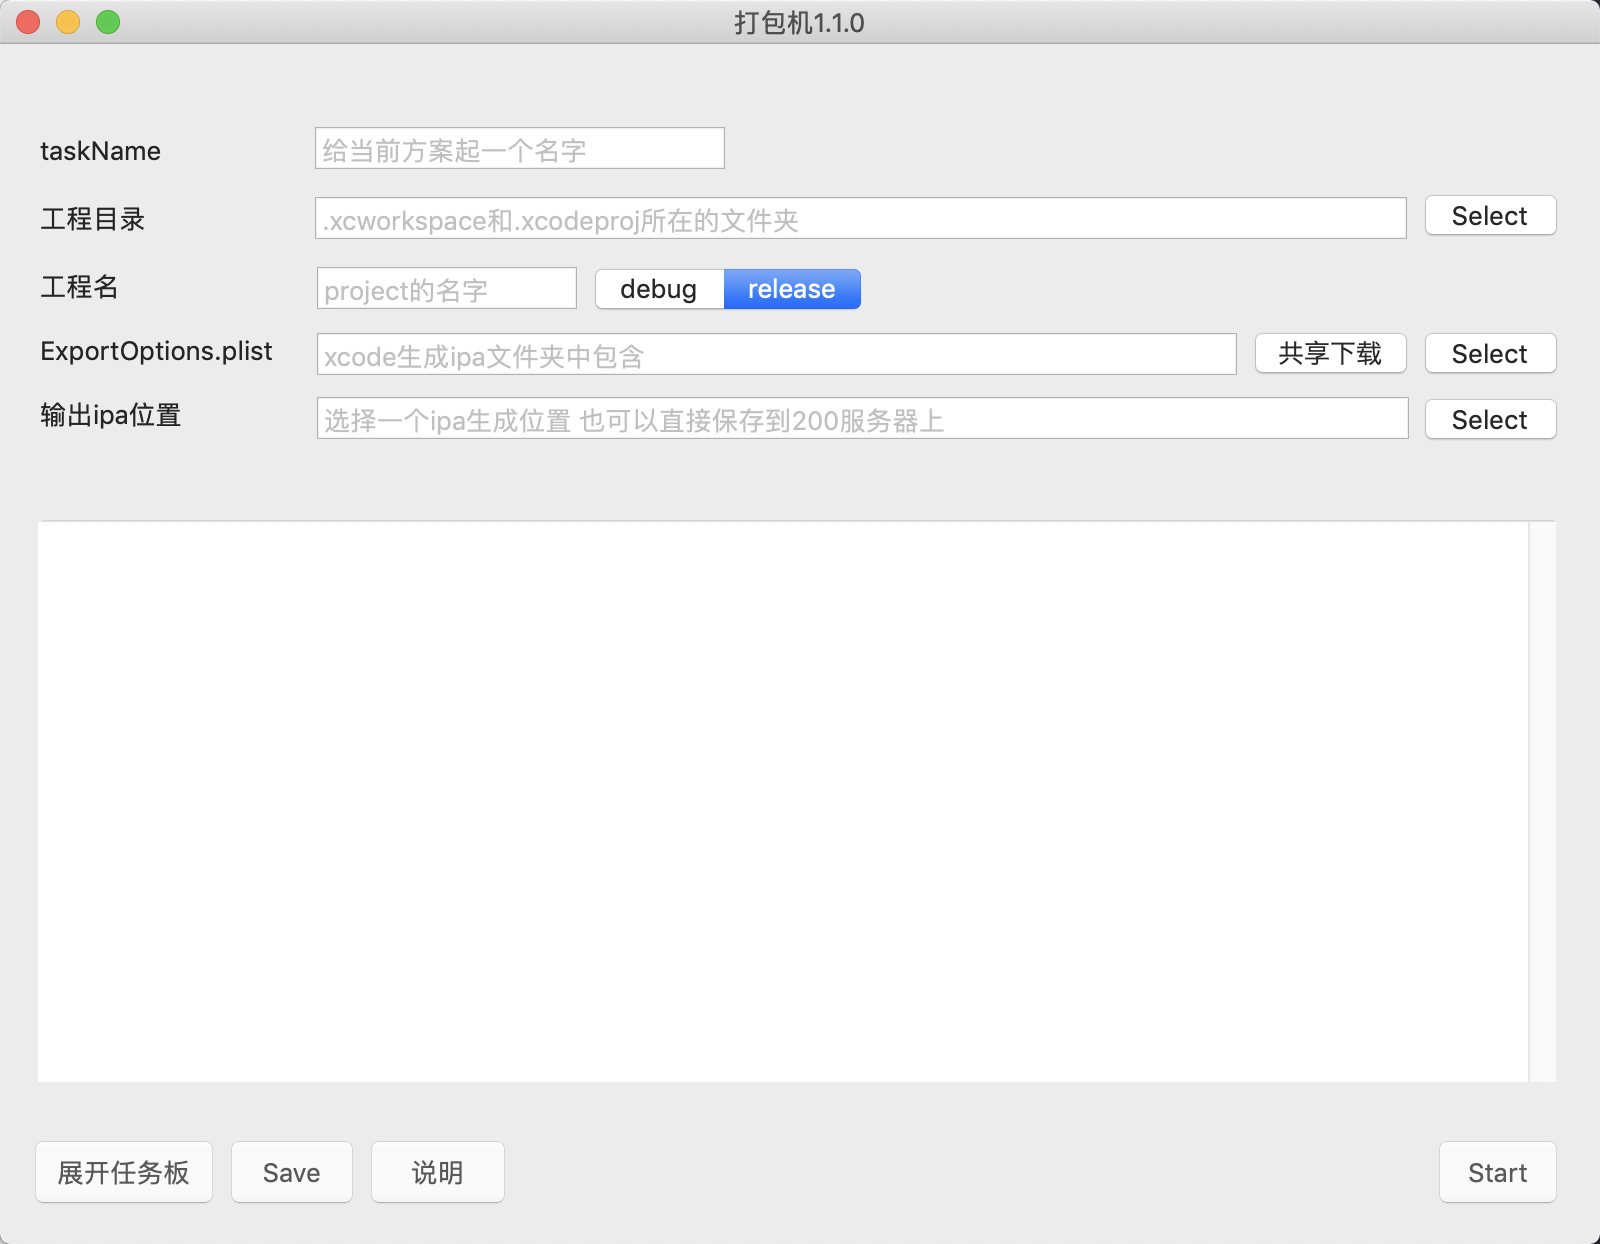
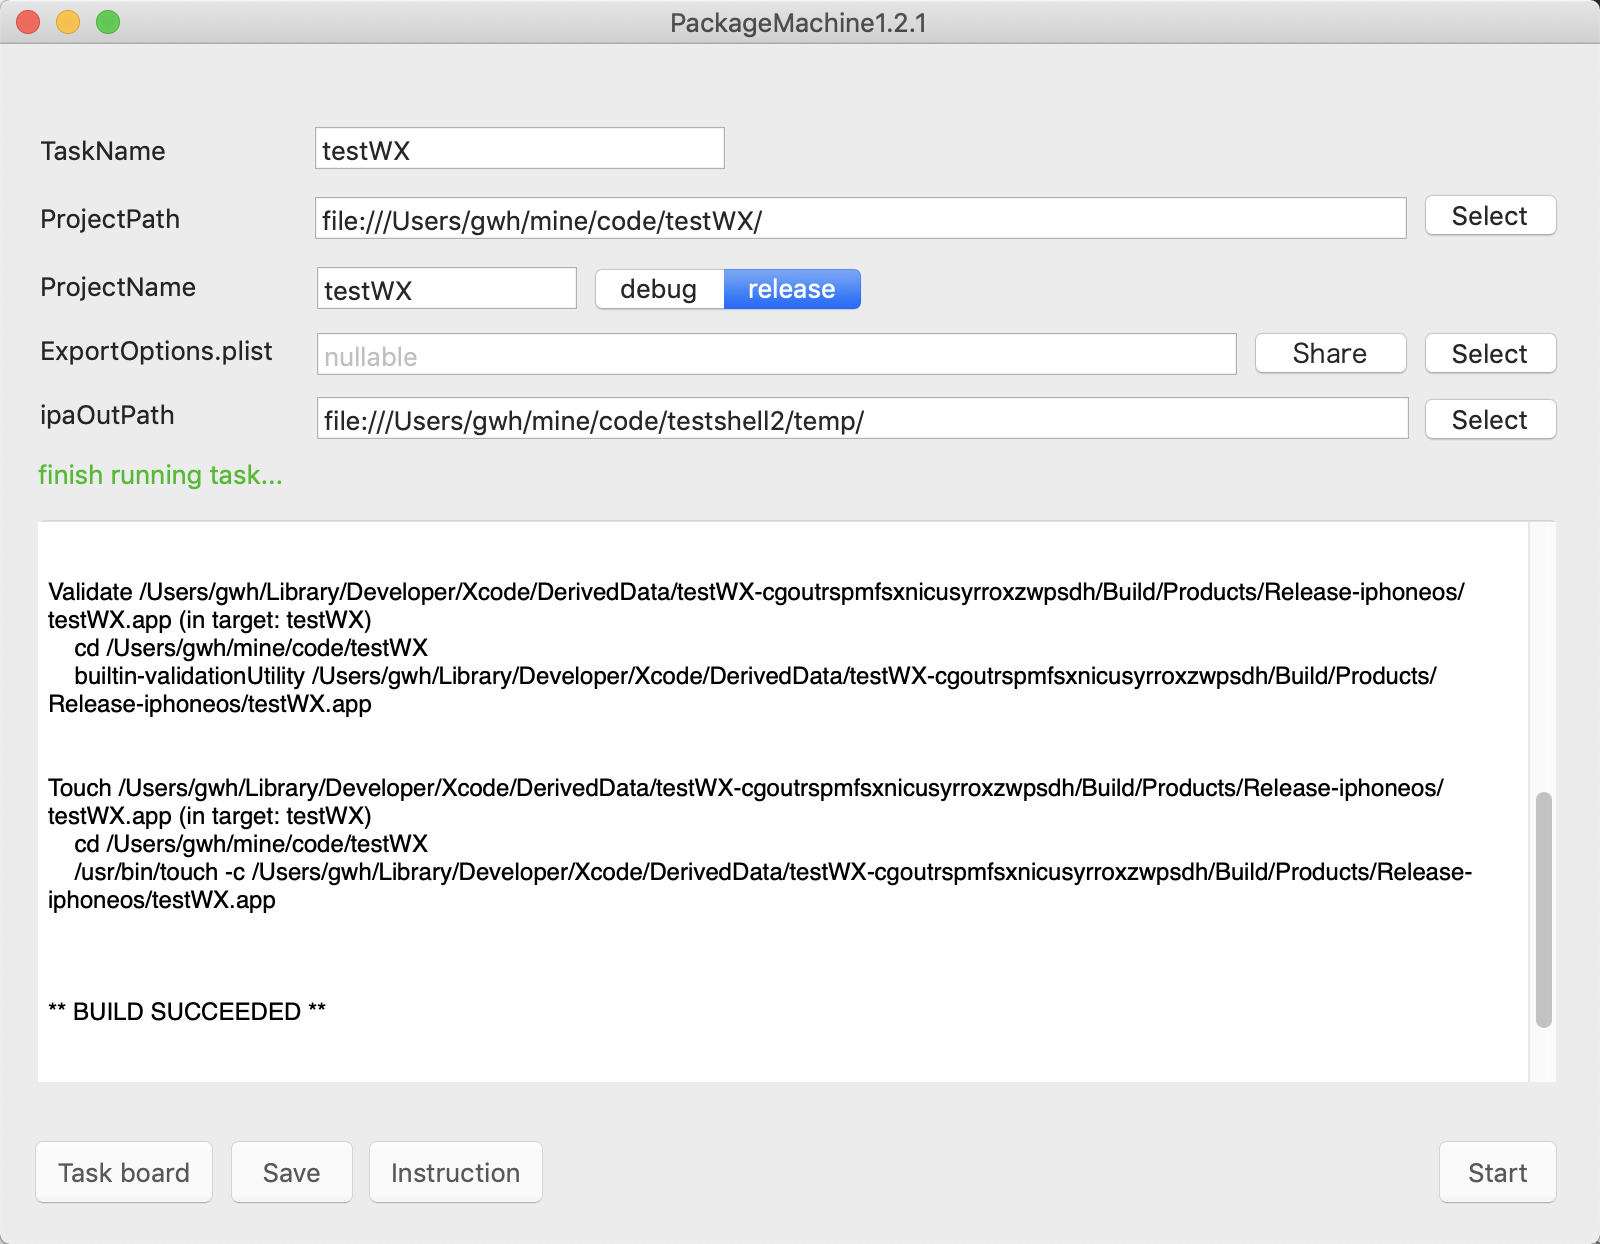
img en

diff --git a/testcocoappswift/ViewController.swift b/testcocoappswift/ViewController.swift
@@ -525,9 +525,9 @@ class ViewController: NSViewController {
         str = str.replacingOccurrences(of: "PATH_PLIST", with: plistStr)
         str = str.replacingOccurrences(of: "PATH_IPA", with: ipaStr)
         str = str.replacingOccurrences(of: "file://", with: "")
-        print("返回的数据：\(str)");
+        print("result：\(str)");
         
-        self.logTextField.stringValue="执行中。。。";
+        self.logTextField.stringValue="start running task...";
         
         DispatchQueue.global(qos: .default).async {
             
@@ -550,7 +550,7 @@ class ViewController: NSViewController {
                 
                 //5. 在主线程处理UI
                 DispatchQueue.main.async(execute: {
-                    self.logTextField.stringValue="执行完毕";
+                    self.logTextField.stringValue="finish running task...";
                 })
             }
             

diff --git a/README.md b/README.md
@@ -15,7 +15,7 @@ Share: will download shared ExportOptions.plist from server. (current not must)
 
 # notice
 ========
-![img](https://github.com/gwh111/testcocoappswift/blob/master/screenshot.png)
+<img src="https://github.com/gwh111/testcocoappswift/blob/master/screenshot.png" width="320">
 1. error: Signing for "xxx" requires a development team. Select a development team in the project editor. (in target 'xxx')  
 solution: select the right team in project.  
 
